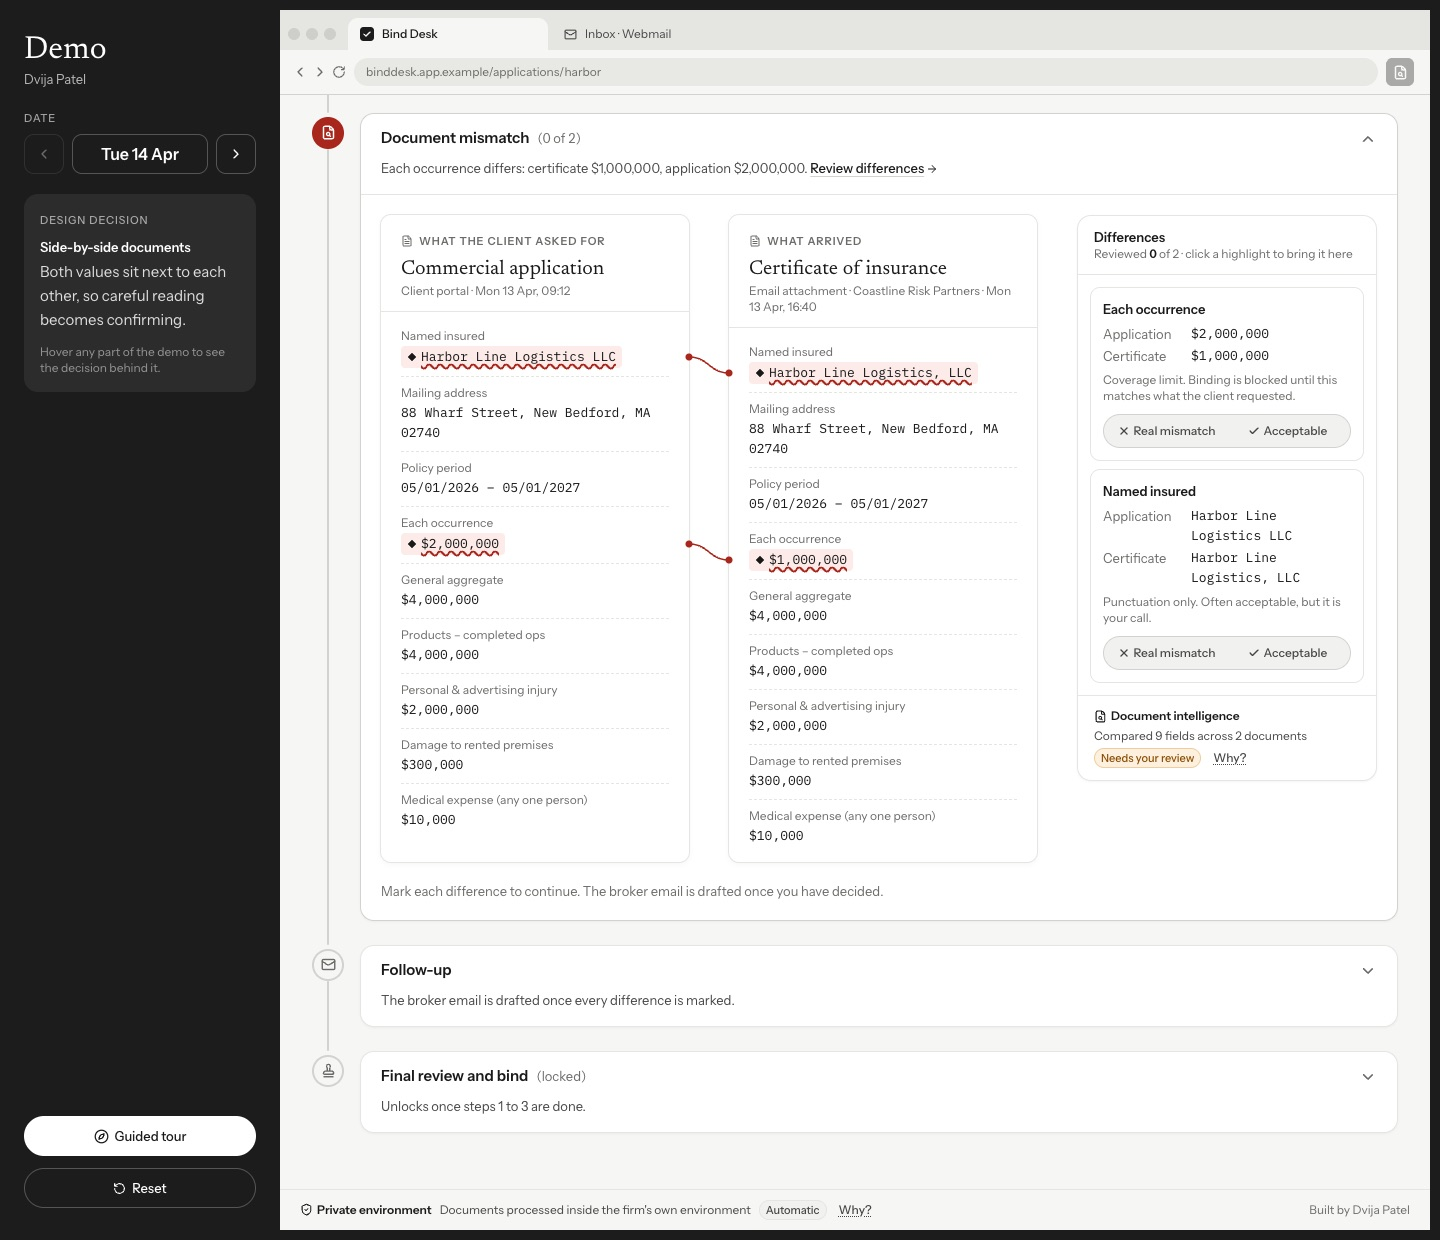
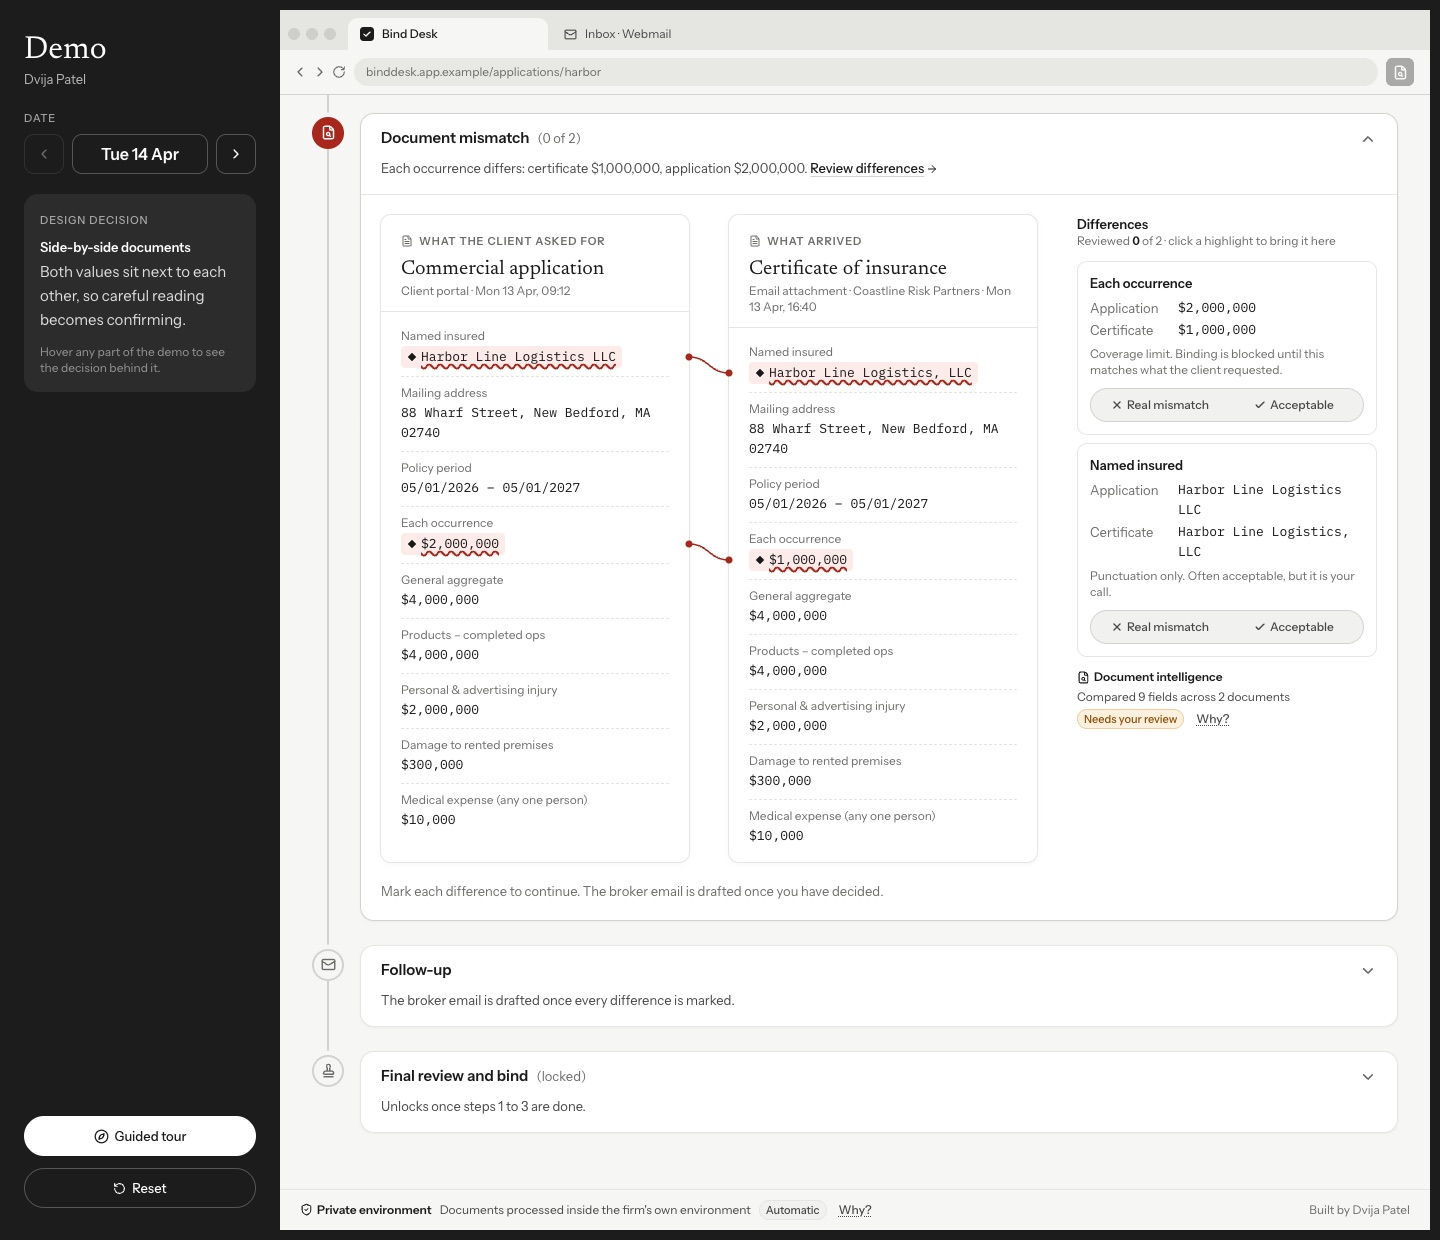
Collapsible stacked documents, plain differences column, trimmed checklist header

Changed region(s): [[0.75, 0.1532, 0.9375, 0.6435]]

diff --git a/src/proto/screens/AppDetail.tsx b/src/proto/screens/AppDetail.tsx
@@ -506,20 +506,10 @@ function ChecklistSection({ sub }: { sub: Submission }) {
   const items = getChecklist(sub)
   const suggested = items.filter((c) => c.suggestion)
   const handled = suggested.filter((c) => suggestions[decisionKey(sub.id, c.id)]).length
-  const done = items.filter((c) => c.state === 'done' || suggestions[decisionKey(sub.id, c.id)] === 'accepted').length
 
   return (
     <section aria-label="Checklist">
-      <p className="mb-2 text-xs text-ink-3">Bindwise checklist, unchanged</p>
       <div data-decision="checklist" className="rounded-card border border-line bg-surface">
-        <div className="flex items-center justify-between border-b border-line px-5 py-3">
-          <p className="text-sm font-semibold">
-            <Counter value={done} /> of {items.length} complete
-          </p>
-          <div className="h-1.5 w-40 overflow-hidden rounded-full bg-muted">
-            <div className="h-full origin-left rounded-full bg-success transition-transform duration-300" style={{ transform: `scaleX(${done / items.length})` }} />
-          </div>
-        </div>
         <ul className="grid divide-y divide-line md:grid-cols-2 md:divide-y-0 md:[&>li]:border-b md:[&>li]:border-line md:[&>li:nth-child(odd)]:border-r">
           {items.map((c) => {
             const s = suggestions[decisionKey(sub.id, c.id)]
@@ -591,18 +581,59 @@ function ChecklistSection({ sub }: { sub: Submission }) {
 
 /* ------------------------------ Docs ------------------------------ */
 
-function DocPaper({ doc, side, sub, decisions, active, onHighlight }: { doc: SourceDoc; side: 'left' | 'right' | 'solo'; sub: Submission; decisions: Record<string, Decision>; active?: string | null; onHighlight?: (diffId: string) => void }) {
+function useWide() {
+  const q = '(min-width: 1280px)'
+  const [wide, setWide] = useState(() => window.matchMedia(q).matches)
+  useEffect(() => {
+    const mq = window.matchMedia(q)
+    const on = () => setWide(mq.matches)
+    mq.addEventListener('change', on)
+    return () => mq.removeEventListener('change', on)
+  }, [])
+  return wide
+}
+
+function DocPaper({
+  doc,
+  side,
+  sub,
+  decisions,
+  active,
+  onHighlight,
+  collapsible = false,
+}: {
+  doc: SourceDoc
+  side: 'left' | 'right' | 'solo'
+  sub: Submission
+  decisions: Record<string, Decision>
+  active?: string | null
+  onHighlight?: (diffId: string) => void
+  /** Stacked layout: show the header only until clicked */
+  collapsible?: boolean
+}) {
+  const [open, setOpen] = useState(false)
+  const shown = !collapsible || open
+  const head = (
+    <>
+      <p className="flex items-center gap-1.5 text-[11px] font-semibold uppercase tracking-[0.08em] text-ink-3">
+        <FileText aria-hidden size={12} /> {side === 'left' ? 'What the client asked for' : side === 'right' ? 'What arrived' : doc.kind}
+      </p>
+      <h3 className="mt-1 font-display text-xl leading-7">{doc.title}</h3>
+      <p className="text-xs text-ink-3">
+        {doc.source} · {doc.received}
+      </p>
+    </>
+  )
   return (
     <article data-doc={side} className="doc-paper rounded-card" aria-label={doc.title}>
-      <header className="border-b border-line px-5 pb-3 pt-4">
-        <p className="flex items-center gap-1.5 text-[11px] font-semibold uppercase tracking-[0.08em] text-ink-3">
-          <FileText aria-hidden size={12} /> {side === 'left' ? 'What the client asked for' : side === 'right' ? 'What arrived' : doc.kind}
-        </p>
-        <h3 className="mt-1 font-display text-xl leading-7">{doc.title}</h3>
-        <p className="text-xs text-ink-3">
-          {doc.source} · {doc.received}
-        </p>
-      </header>
+      {collapsible ? (
+        <button onClick={() => setOpen((o) => !o)} aria-expanded={open} className={`flex w-full items-start gap-3 px-5 pb-3 pt-4 text-left ${open ? 'border-b border-line' : ''}`}>
+          <span className="min-w-0 flex-1">{head}</span>
+          <ChevronDown aria-hidden size={18} className={`mt-1 shrink-0 text-ink-3 transition-transform duration-200 ${open ? 'rotate-180' : ''}`} />
+        </button>
+      ) : null}
+      {!collapsible && <header className="border-b border-line px-5 pb-3 pt-4">{head}</header>}
+      {shown && (
       <dl className="px-5 py-2">
         {doc.fields.map((f) => {
           const diff = side === 'solo' ? undefined : sub.diffs?.find((d) => (side === 'left' ? d.leftKey : d.rightKey) === f.key)
@@ -631,12 +662,14 @@ function DocPaper({ doc, side, sub, decisions, active, onHighlight }: { doc: Sou
           )
         })}
       </dl>
+      )}
     </article>
   )
 }
 
 function Compare({ sub }: { sub: Submission }) {
   const { decisions, epoch, focusDiff } = useProto()
+  const wide = useWide()
   const decide = useProto((s) => s.decide)
   const markReady = useProto((s) => s.markReady)
   const setFocusDiff = useProto((s) => s.setFocusDiff)
@@ -724,8 +757,8 @@ function Compare({ sub }: { sub: Submission }) {
     <div className="space-y-5">
       <div ref={area} data-enter className="relative grid gap-5 xl:grid-cols-[minmax(0,1fr)_minmax(0,1fr)_300px] xl:gap-x-10">
         <div data-decision="compare" className="contents">
-          <DocPaper doc={sub.application} side="left" sub={sub} decisions={decisions} active={active} onHighlight={bringToTop} />
-          <DocPaper doc={sub.counterDoc!} side="right" sub={sub} decisions={decisions} active={active} onHighlight={bringToTop} />
+          <DocPaper key={`l${wide}`} doc={sub.application} side="left" sub={sub} decisions={decisions} active={active} onHighlight={bringToTop} collapsible={!wide} />
+          <DocPaper key={`r${wide}`} doc={sub.counterDoc!} side="right" sub={sub} decisions={decisions} active={active} onHighlight={bringToTop} collapsible={!wide} />
         </div>
         <svg ref={svg} aria-hidden className="pointer-events-none absolute inset-0 hidden h-full w-full overflow-visible xl:block">
           {paths.map((p) => {
@@ -741,8 +774,8 @@ function Compare({ sub }: { sub: Submission }) {
         </svg>
 
         {/* Differences column */}
-        <aside data-decision="differences" aria-labelledby="diffs-title" className="self-start rounded-panel border border-line bg-surface shadow-card">
-          <div className="border-b border-line px-4 py-3">
+        <aside data-decision="differences" aria-labelledby="diffs-title" className="self-start">
+          <div className="pb-1">
             <h3 id="diffs-title" className="text-sm font-semibold">
               Differences
             </h3>
@@ -750,7 +783,7 @@ function Compare({ sub }: { sub: Submission }) {
               Reviewed <Counter value={reviewed} className="font-semibold text-ink" /> of {raw.length} · click a highlight to bring it here
             </p>
           </div>
-          <ul ref={list} className="space-y-2 p-3">
+          <ul ref={list} className="space-y-2 py-2">
             {diffs.map((d) => {
               const v = decisions[decisionKey(sub.id, d.id)]
               return (
@@ -792,7 +825,7 @@ function Compare({ sub }: { sub: Submission }) {
               )
             })}
           </ul>
-          <div data-decision="ai-tag" className="border-t border-line px-4 py-3">
+          <div data-decision="ai-tag" className="pt-1">
             <AiTag
               variant="Document intelligence"
               did="Compared 9 fields across 2 documents"
